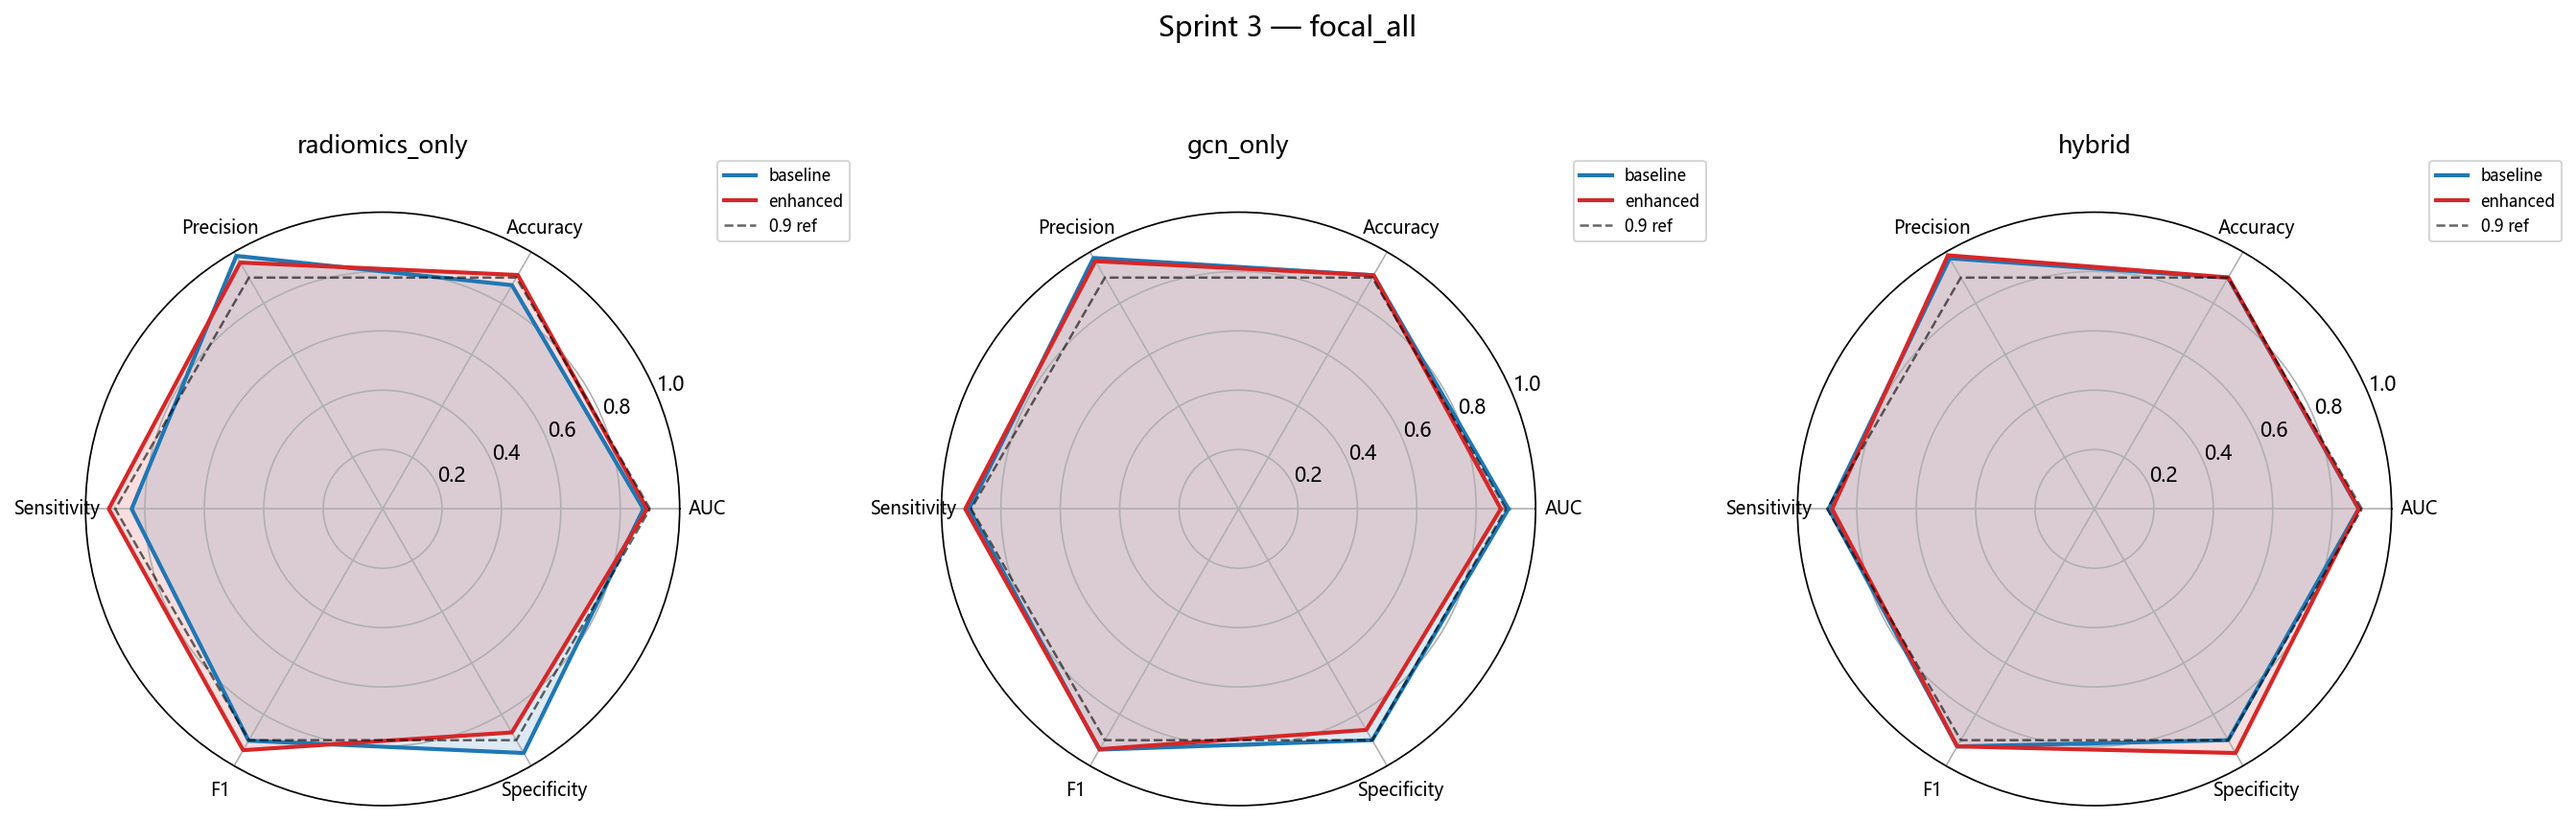
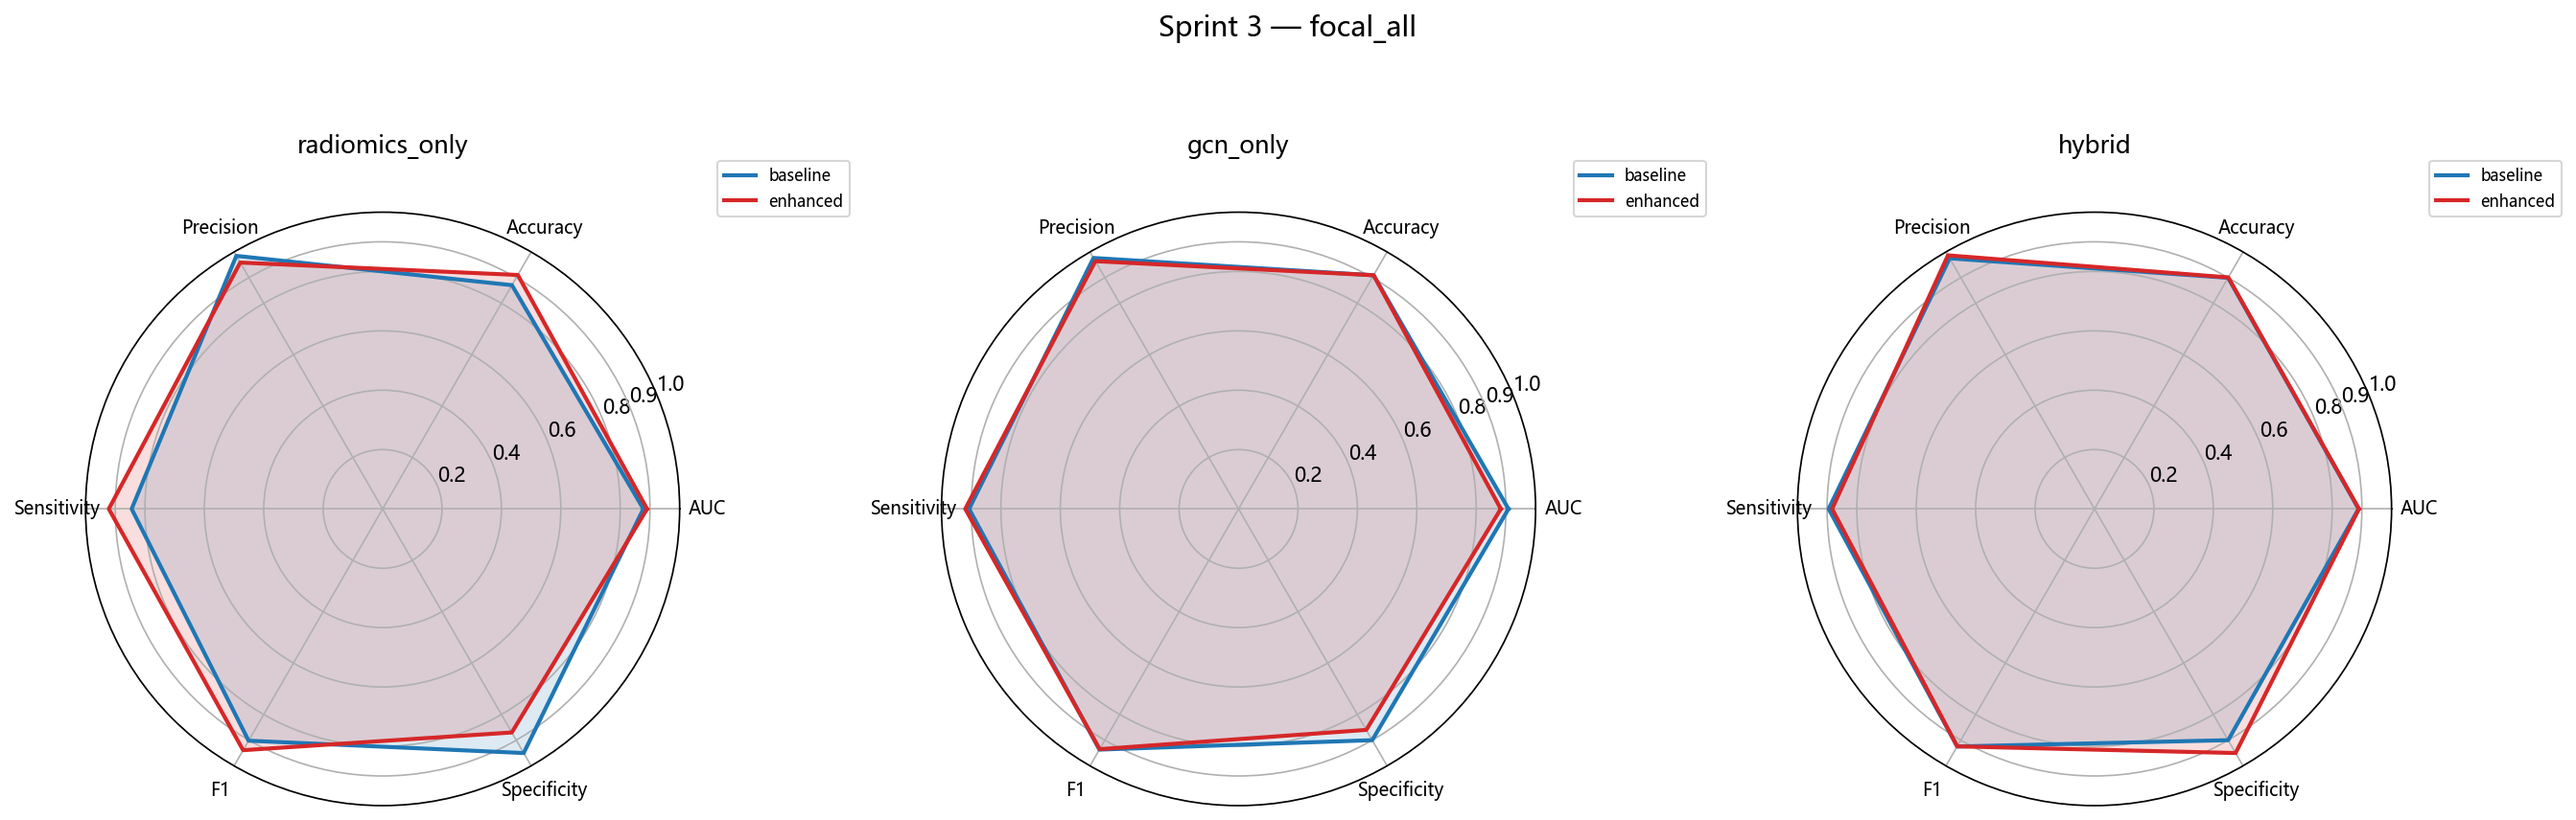
fix(radar): add 0.9 as grid ring (matches 0.6/0.8 style, no legend entry)

diff --git a/outputs/sprint3_report.py b/outputs/sprint3_report.py
@@ -55,11 +55,9 @@ def per_arm_radar(arm: str, data: dict) -> Path:
             vals += vals[:1]
             ax.plot(angles, vals, color=color, linewidth=2, label=fs)
             ax.fill(angles, vals, color=color, alpha=0.15)
-        ref = [0.9] * len(KEYS) + [0.9]
-        ax.plot(angles, ref, color="#000", linewidth=1.2, linestyle="--",
-                alpha=0.6, label="0.9 ref")
         ax.set_xticks(angles[:-1]); ax.set_xticklabels(KEYS, fontsize=9)
         ax.set_ylim(0, 1)
+        ax.set_yticks([0.2, 0.4, 0.6, 0.8, 0.9, 1.0])
         ax.set_title(mode, y=1.08, fontsize=12)
         ax.legend(loc="upper right", bbox_to_anchor=(1.3, 1.1), fontsize=8)
     fig.suptitle(f"Sprint 3 — {arm}", fontsize=14, y=1.02)
